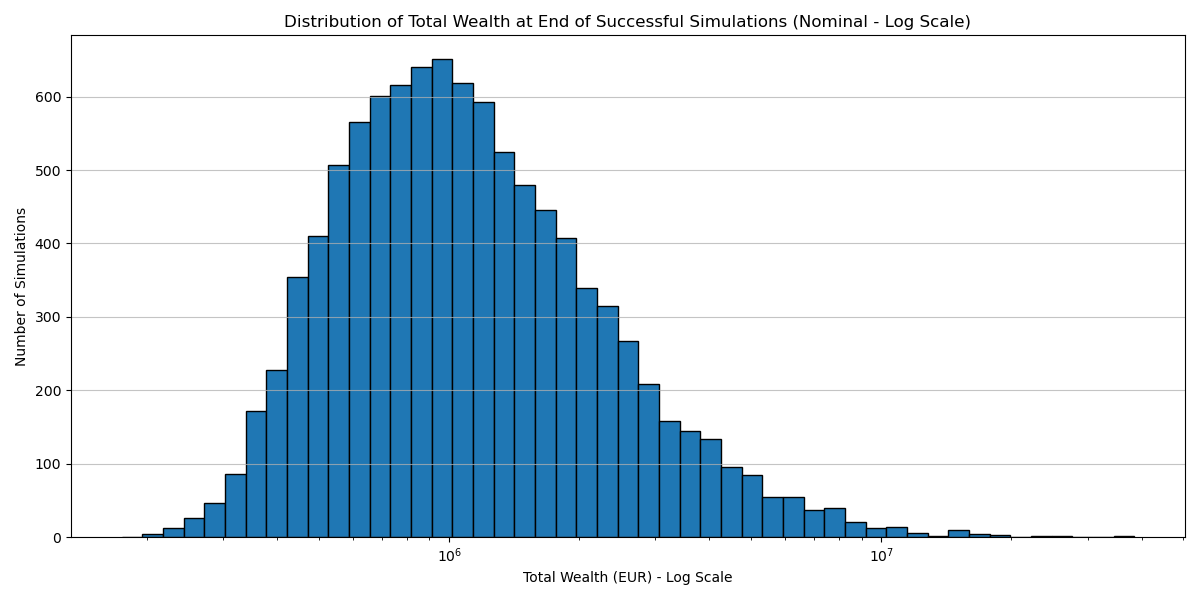
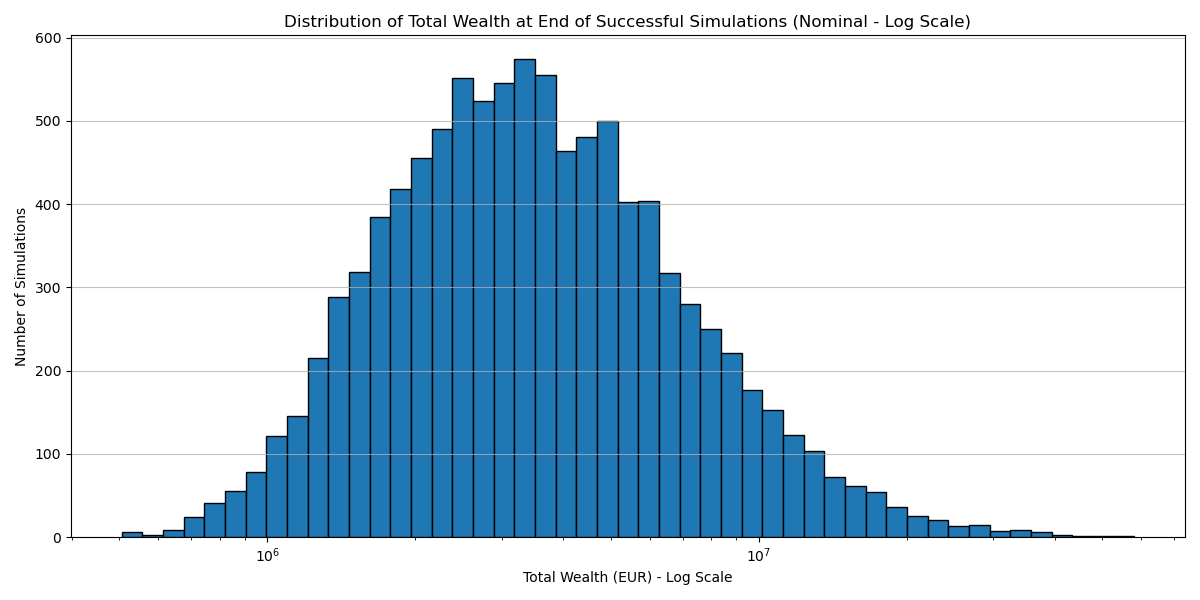
Small adjustment

diff --git a/main.py b/main.py
@@ -107,7 +107,7 @@ def main():
     sim_params = config_data['simulation_parameters']
     num_simulations = sim_params['num_simulations']
     random_seed = sim_params['random_seed']
-    np.random.seed(random_seed)
+    # np.random.seed(random_seed)
 
     (
         mu_log_stocks, sigma_log_stocks,
